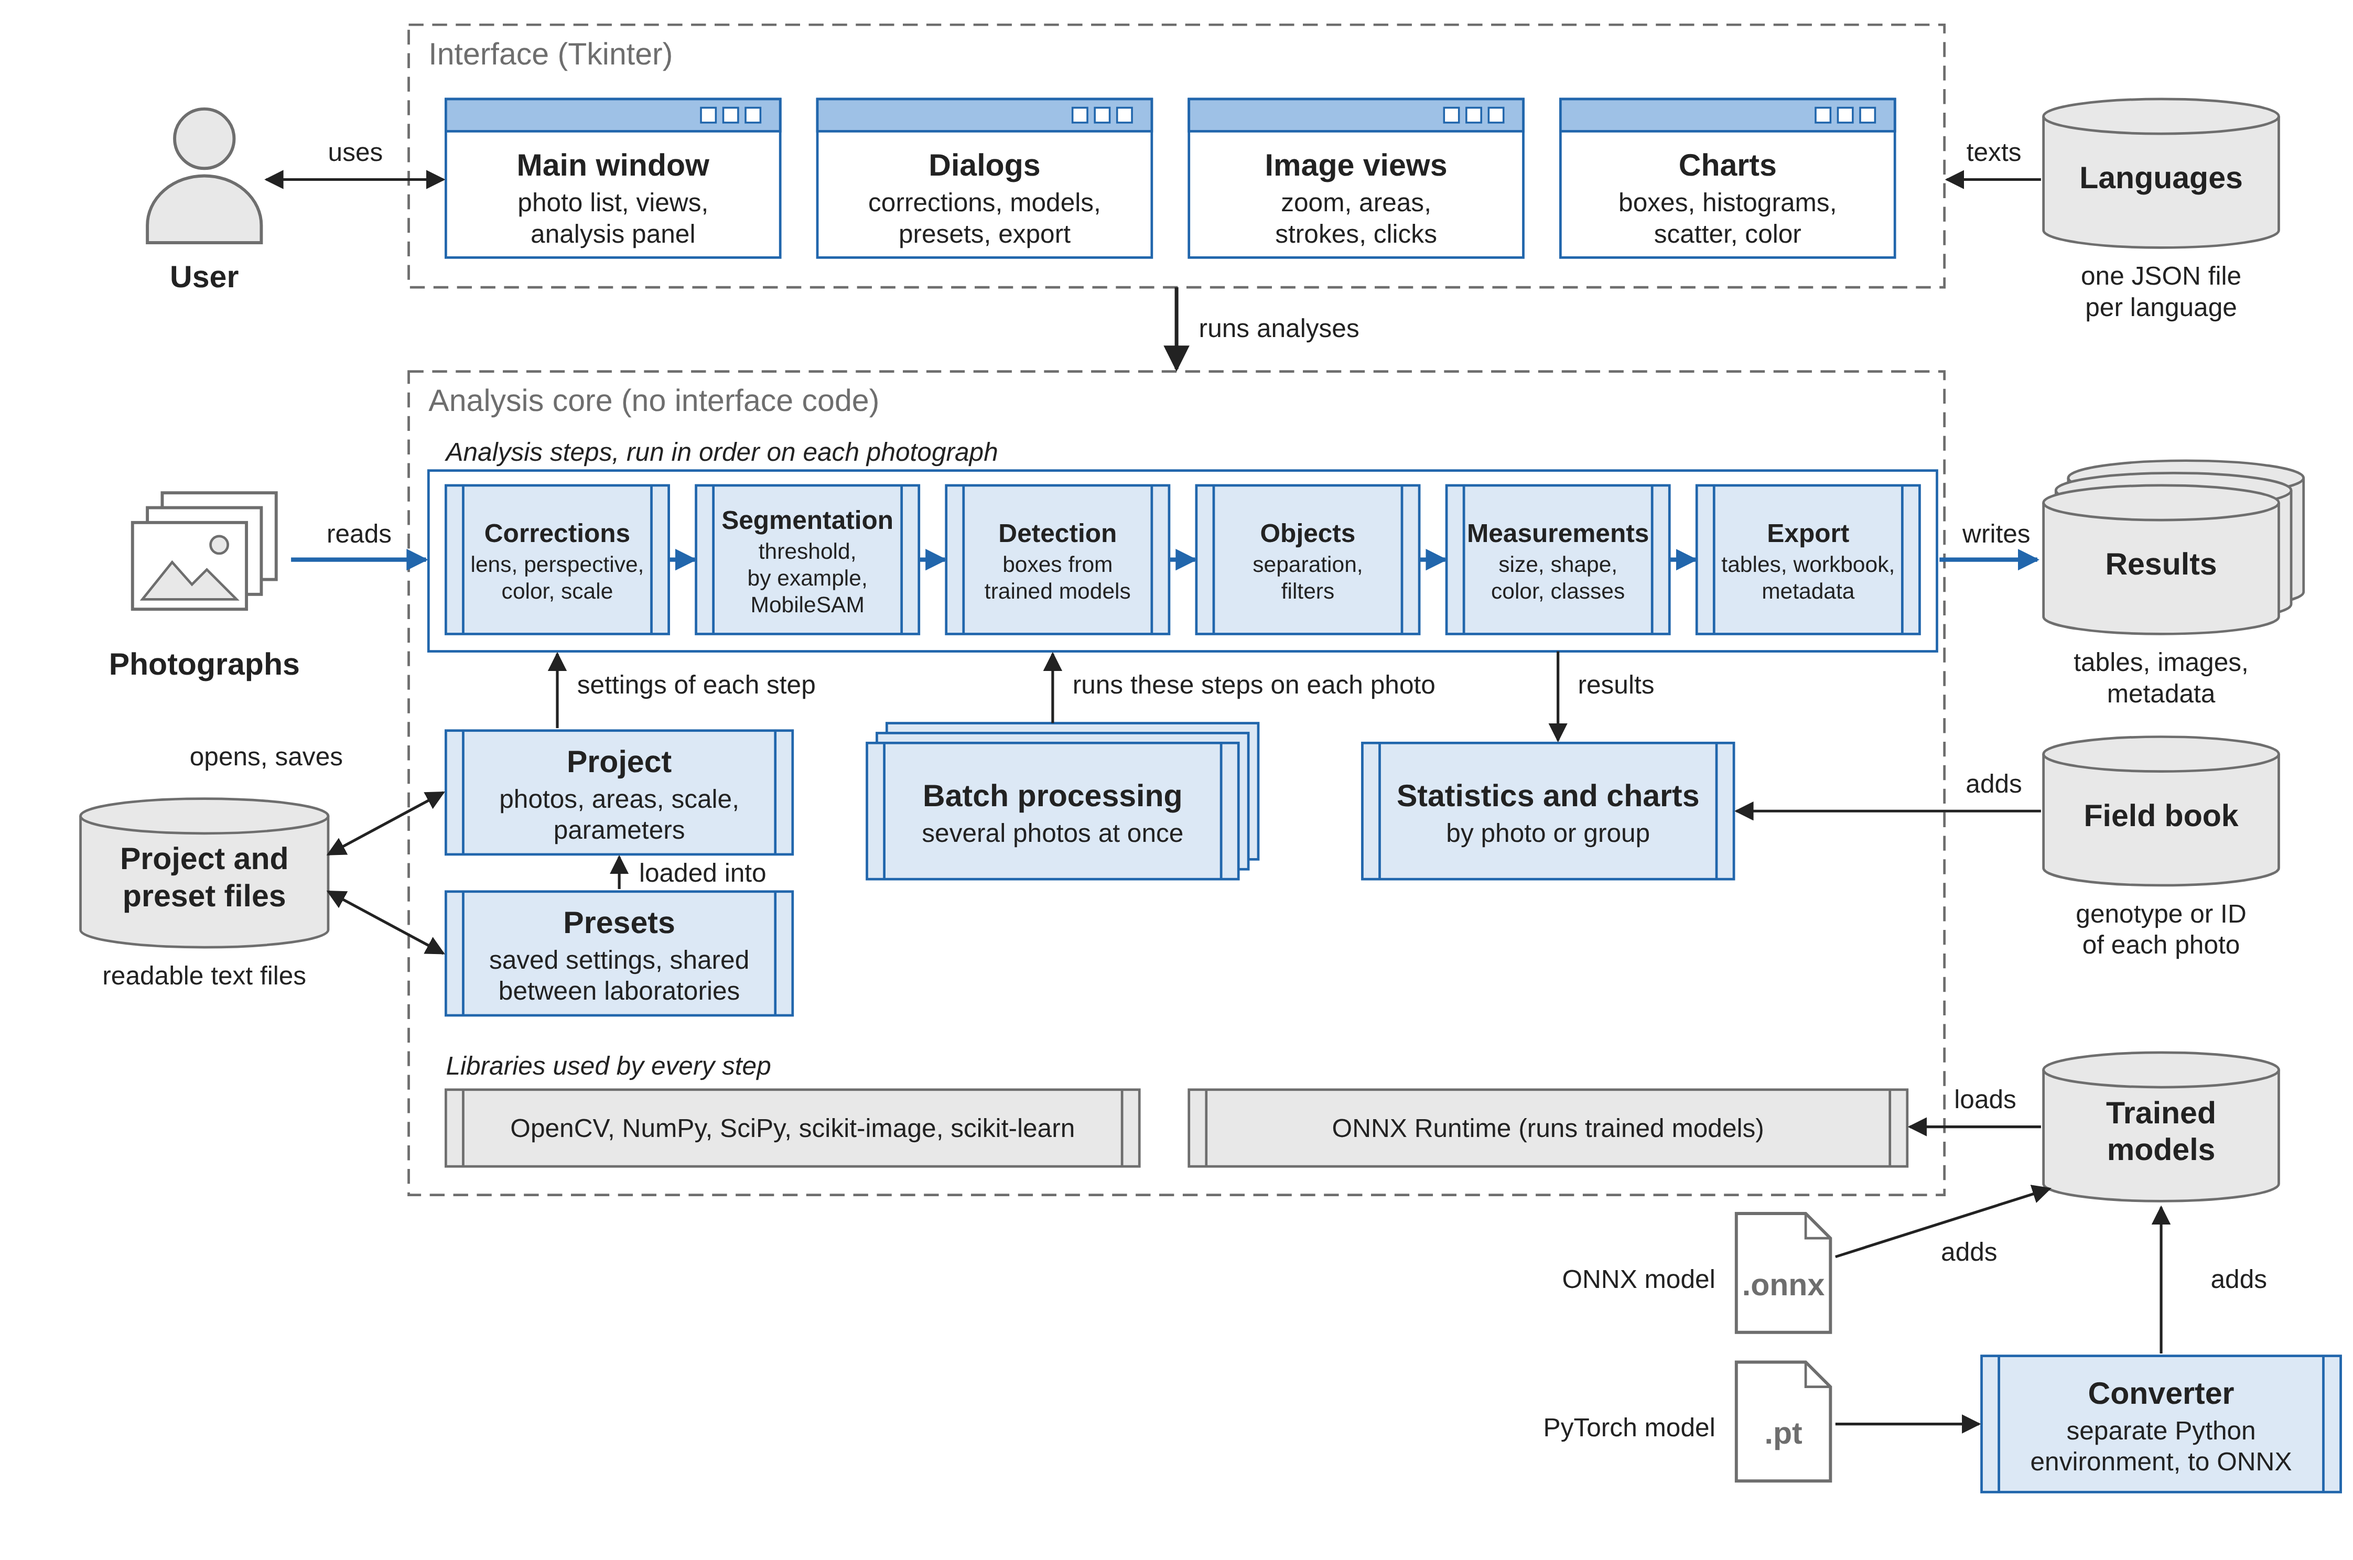
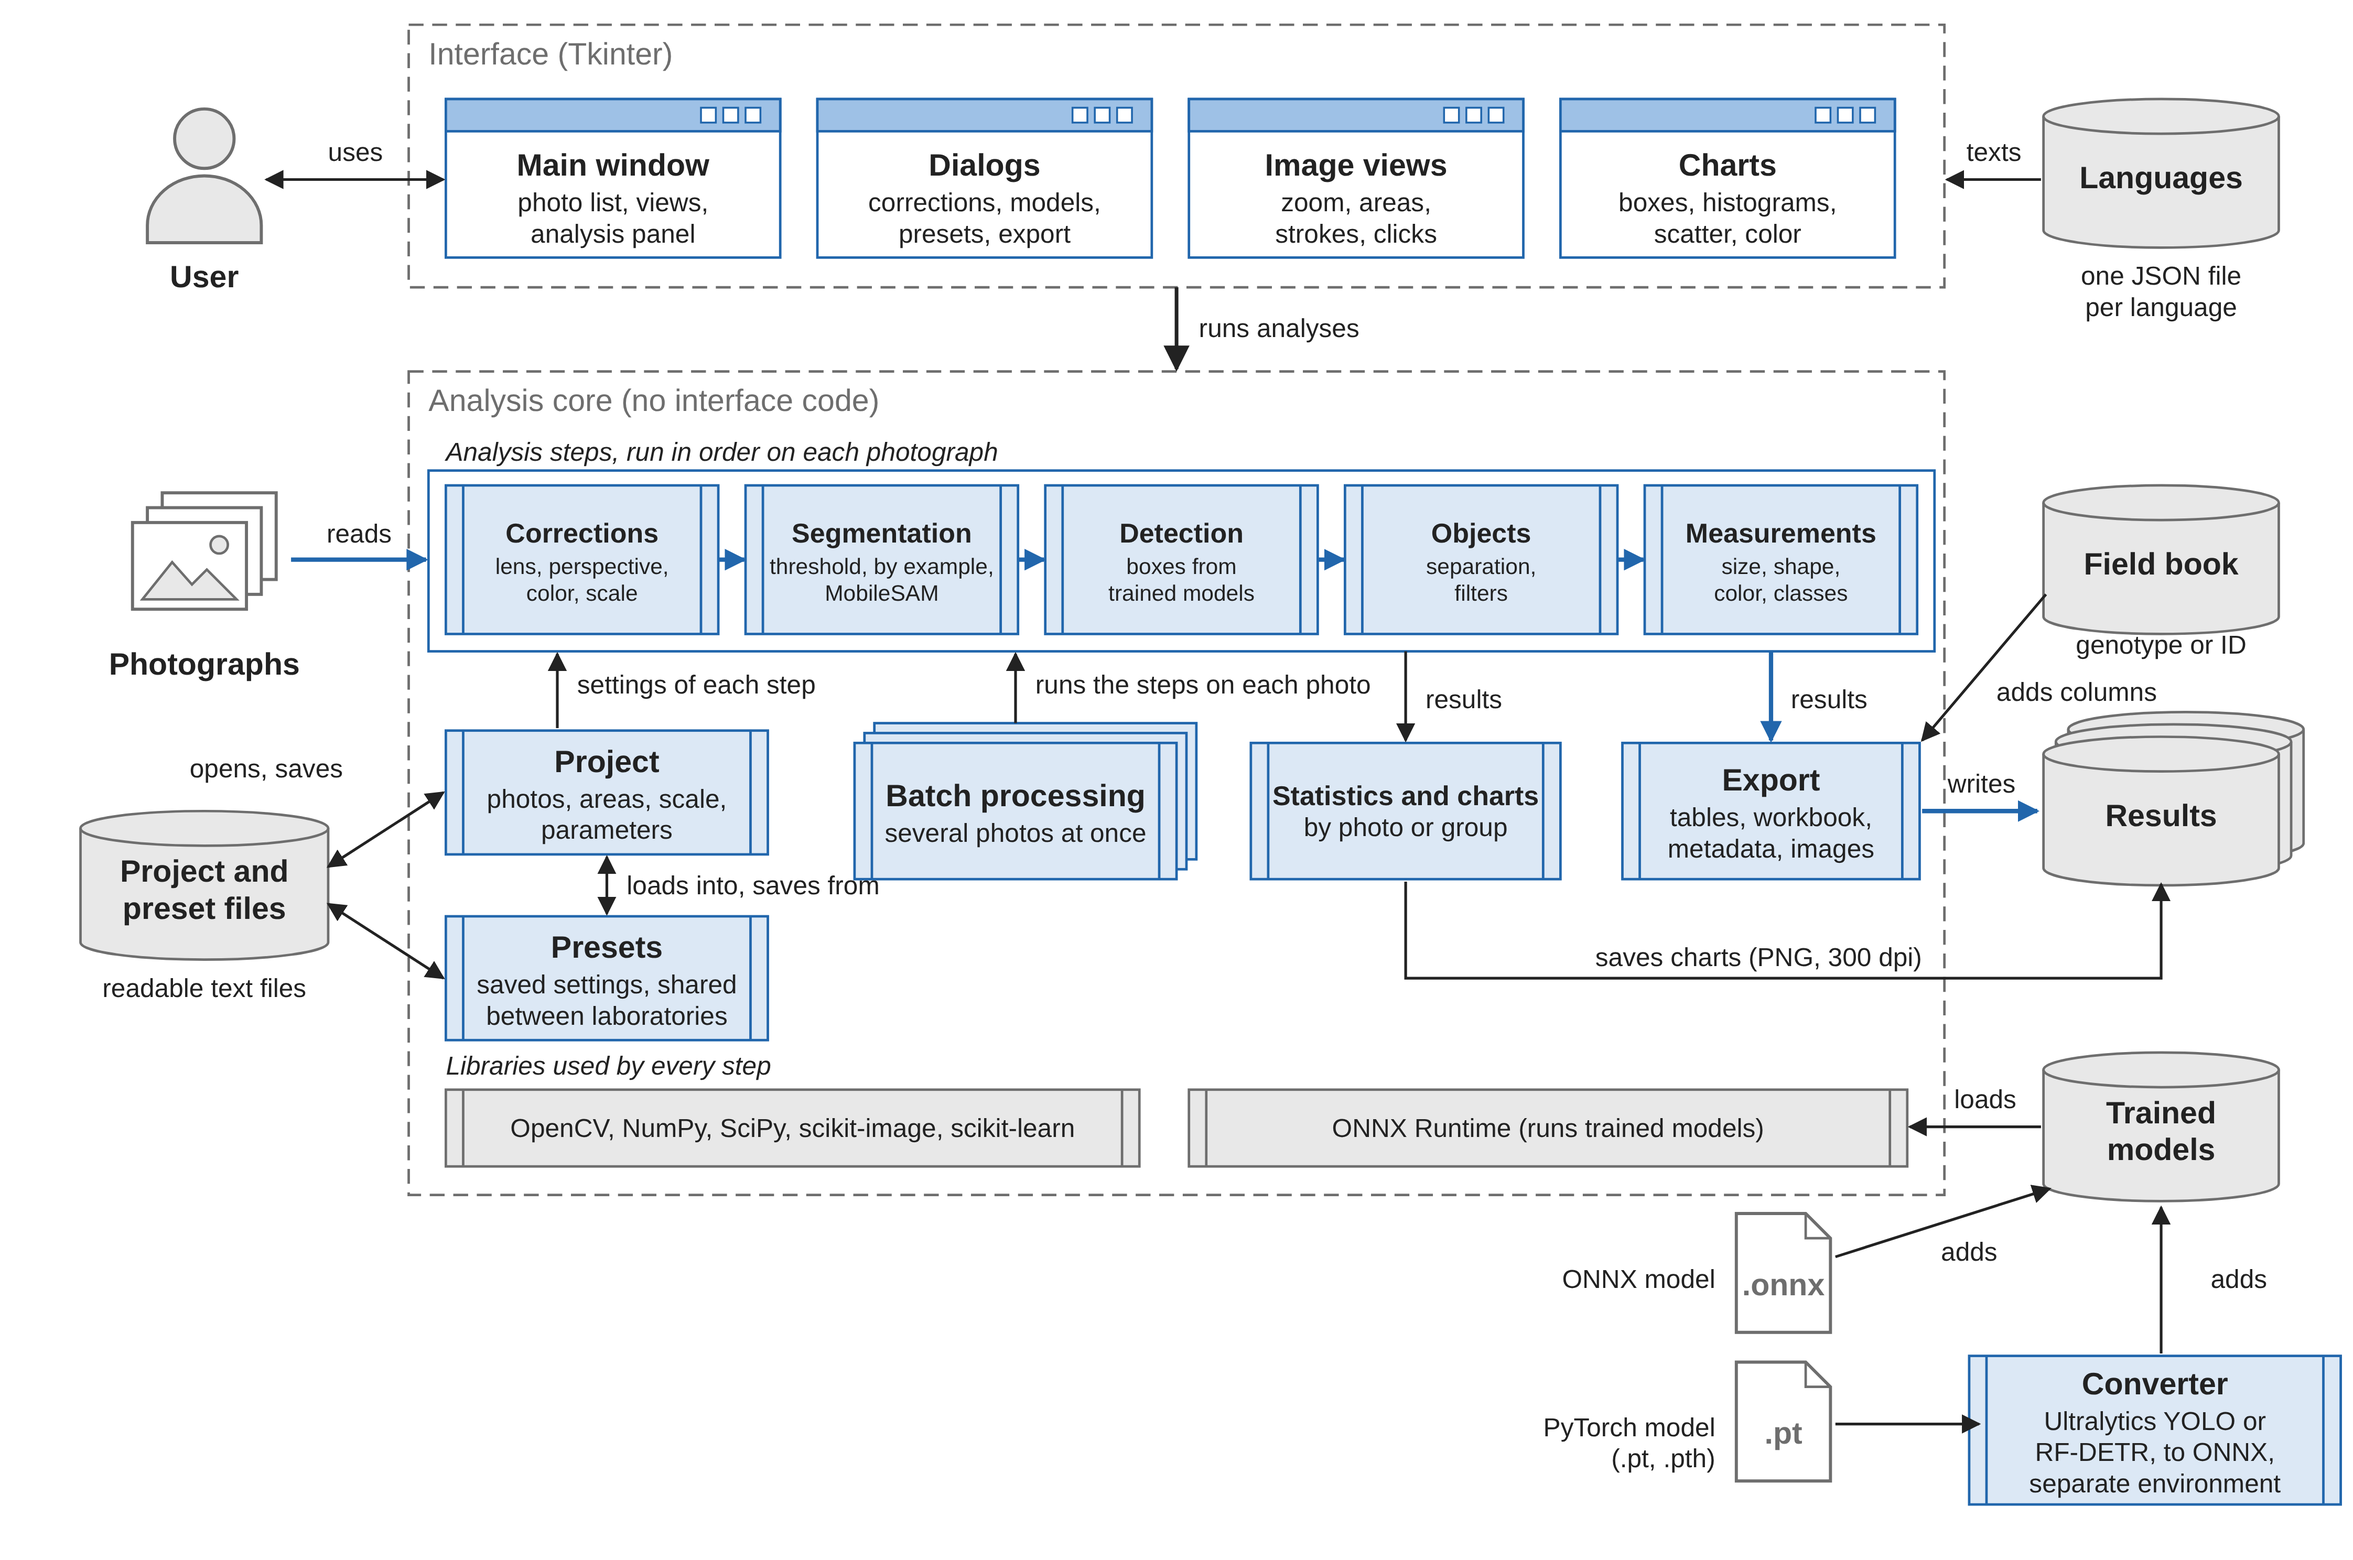
Arquitectura: exportación fuera de los pasos, gráficos que se guardan, conversor YOLO y RF-DETR

diff --git a/docs/paper/architecture_figure.py b/docs/paper/architecture_figure.py
@@ -163,45 +163,50 @@ def draw():
     text(968, 272, "runs analyses", size=LABEL_SIZE, anchor="start")
     text(360, 372, "Analysis steps, run in order on each photograph", size=NOTE_SIZE, anchor="start", italic=True)
     chain = [("Corrections", ["lens, perspective,", "color, scale"]),
-             ("Segmentation", ["threshold,", "by example,", "MobileSAM"]),
+             ("Segmentation", ["threshold, by example,", "MobileSAM"]),
              ("Detection", ["boxes from", "trained models"]),
              ("Objects", ["separation,", "filters"]),
-             ("Measurements", ["size, shape,", "color, classes"]),
-             ("Export", ["tables, workbook,", "metadata"])]
-    box_width, gap, top, height = 180, 22, 392, 120
-    parts.append(f'<rect x="346" y="380" width="1218" height="146" fill="none" stroke="{BLUE}" stroke-width="2"/>')
+             ("Measurements", ["size, shape,", "color, classes"])]
+    box_width, gap, top, height = 220, 22, 392, 120
+    parts.append(f'<rect x="346" y="380" width="1216" height="146" fill="none" stroke="{BLUE}" stroke-width="2"/>')
     for index, (name, notes) in enumerate(chain):
         x = 360 + index * (box_width + gap)
-        module(x, top, box_width, height, name, notes, name_size=21, note_size=18)
+        module(x, top, box_width, height, name, notes, name_size=22, note_size=18)
         if index:
             arrow([(x - gap, top + height / 2), (x - 1, top + height / 2)], width=3.5, main=True)
-    chain_end = 360 + len(chain) * (box_width + gap) - gap
     photos(LEFT_X, 470)
     lines(LEFT_X, 545, ["Photographs"], size=NAME_SIZE, weight="bold")
     arrow([(LEFT_X + 70, 452), (344, 452)], width=3.5, main=True)
     text(290, 438, "reads", size=LABEL_SIZE)
-    cylinder(RIGHT_X, 452, 190, 92, ["Results"], ["tables, images,", "metadata"], stack=3)
-    arrow([(1566, 452), (1645, 452)], width=3.5, main=True)
-    text(1612, 438, "writes", size=LABEL_SIZE)
 
-    # Núcleo: lo que acompaña a la cadena
-    module(360, 590, 280, 100, "Project", ["photos, areas, scale,", "parameters"])
-    module(360, 720, 280, 100, "Presets", ["saved settings, shared", "between laboratories"])
-    cylinder(LEFT_X, 705, 200, 92, ["Project and", "preset files"], ["readable text files"])
-    arrow([(265, 690), (358, 640)], both=True, label="opens, saves", at=(215, 618))
-    arrow([(265, 720), (358, 770)], both=True)
+    # Núcleo: lo que acompaña a los pasos
+    module(360, 590, 260, 100, "Project", ["photos, areas, scale,", "parameters"])
+    module(360, 740, 260, 100, "Presets", ["saved settings, shared", "between laboratories"])
+    cylinder(LEFT_X, 715, 200, 92, ["Project and", "preset files"], ["readable text files"])
+    arrow([(265, 700), (358, 640)], both=True, label="opens, saves", at=(215, 628))
+    arrow([(265, 730), (358, 790)], both=True)
     arrow([(450, 588), (450, 528)])
     text(466, 560, "settings of each step", size=LABEL_SIZE, anchor="start")
-    arrow([(500, 718), (500, 692)])
-    text(516, 712, "loaded into", size=LABEL_SIZE, anchor="start")
-    stacked(700, 600, 300, 110, "Batch processing", ["several photos at once"])
-    arrow([(850, 584), (850, 528)])
-    text(866, 560, "runs these steps on each photo", size=LABEL_SIZE, anchor="start")
-    module(1100, 600, 300, 110, "Statistics and charts", ["by photo or group"])
-    arrow([(1258, 526), (1258, 598)])
-    text(1274, 560, "results", size=LABEL_SIZE, anchor="start")
-    cylinder(RIGHT_X, 655, 190, 92, ["Field book"], ["genotype or ID", "of each photo"])
-    arrow([(1648, 655), (1402, 655)], label="adds", at=(1610, 640))
+    arrow([(490, 738), (490, 692)], both=True)
+    text(506, 722, "loads into, saves from", size=LABEL_SIZE, anchor="start")
+    stacked(690, 600, 260, 110, "Batch processing", ["several photos at once"])
+    arrow([(820, 584), (820, 528)])
+    text(836, 560, "runs the steps on each photo", size=LABEL_SIZE, anchor="start")
+    module(1010, 600, 250, 110, "Statistics and charts", ["by photo or group"], name_size=22)
+    arrow([(1135, 526), (1135, 598)])
+    text(1151, 572, "results", size=LABEL_SIZE, anchor="start")
+    module(1310, 600, 240, 110, "Export", ["tables, workbook,", "metadata, images"])
+    arrow([(1430, 526), (1430, 598)], width=3.5, main=True)
+    text(1446, 572, "results", size=LABEL_SIZE, anchor="start")
+    cylinder(RIGHT_X, 655, 190, 92, ["Results"], [], stack=3)
+    arrow([(1552, 655), (1645, 655)], width=3.5, main=True)
+    text(1600, 640, "writes", size=LABEL_SIZE)
+    arrow([(1135, 712), (1135, 790), (RIGHT_X, 790), (RIGHT_X, 714)])
+    text(1420, 780, "saves charts (PNG, 300 dpi)", size=LABEL_SIZE)
+    cylinder(RIGHT_X, 452, 190, 92, ["Field book"], [])
+    text(RIGHT_X, 528, "genotype or ID")
+    arrow([(1652, 480), (1552, 598)])
+    text(1612, 566, "adds columns", size=LABEL_SIZE, anchor="start")
 
     # Bibliotecas
     module(360, 880, 560, 62, "OpenCV, NumPy, SciPy, scikit-image, scikit-learn", fill=GRAY_FILL, stroke=GRAY,
@@ -213,10 +218,11 @@ def draw():
     # Modelos entrenados y su conversión
     cylinder(RIGHT_X, 910, 190, 92, ["Trained", "models"], [])
     arrow([(1648, 910), (1542, 910)], label="loads", at=(1603, 895))
-    module(1600, 1095, 290, 110, "Converter", ["separate Python", "environment, to ONNX"])
+    module(1590, 1095, 300, 120, "Converter", ["Ultralytics YOLO or", "RF-DETR, to ONNX,", "separate environment"])
     arrow([(RIGHT_X, 1093), (RIGHT_X, 975)], label="adds", at=(RIGHT_X + 40, 1040), anchor="start")
     document(1440, 1150, tag=".pt")
     text(1385, 1160, "PyTorch model", size=NOTE_SIZE, anchor="end")
+    text(1385, 1185, "(.pt, .pth)", size=NOTE_SIZE, anchor="end")
     document(1440, 1030, tag=".onnx")
     text(1385, 1040, "ONNX model", size=NOTE_SIZE, anchor="end")
     arrow([(1482, 1015), (1655, 960)])
